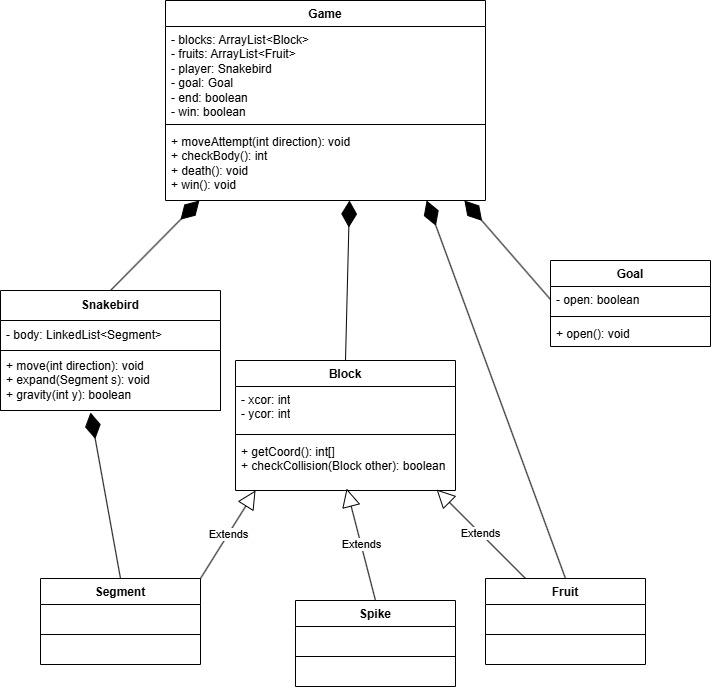
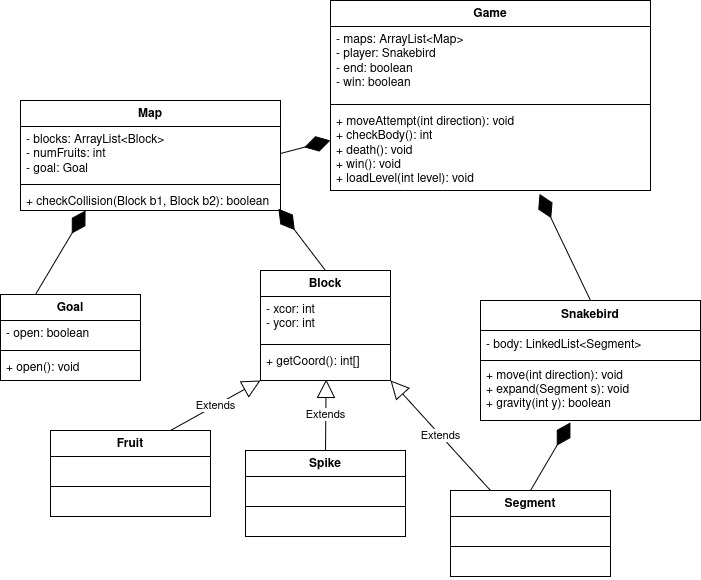
There is now a map object in the plan

diff --git a/PROTOTYPE.md b/PROTOTYPE.md
@@ -42,10 +42,13 @@ A level is created using the block ArrayList in Game, detailing the coordinates 
   * Create block object class [] (estimated done by 5/23)
     * Blocks that make up the stage
       * Extended by fruit, segment, and spike, which are their own classes for clarity
-    * Arraylist of blocks in main game class
-  * Create goal object class [] (estimated done by 5/25)
+  * Create goal object class [] (estimated done by 5/24)
     * Boolean variable for if goal open
     * method to open the goal
+  * Create map object class [] (estimated done by 5/26)
+    * Arraylists of blocks
+    * Contains a goal
+    * Method to detect collision
 
 * Player character object class [] (estimated done by 5/25) (Kevin)
   * Body parts []
@@ -69,6 +72,7 @@ A level is created using the block ArrayList in Game, detailing the coordinates 
   * checkBody() finds how far the player should fall; can return 0
   * death() turns end variable to true, which causes an animation to play in draw
   * win() turns win variable to true, which will remove a segment each time draw is called to simulate the player entering the portal
+  * loadLevel(int level) to load in the different levels
 
 * Make first stage [] (estimated done by 5/29)
 
